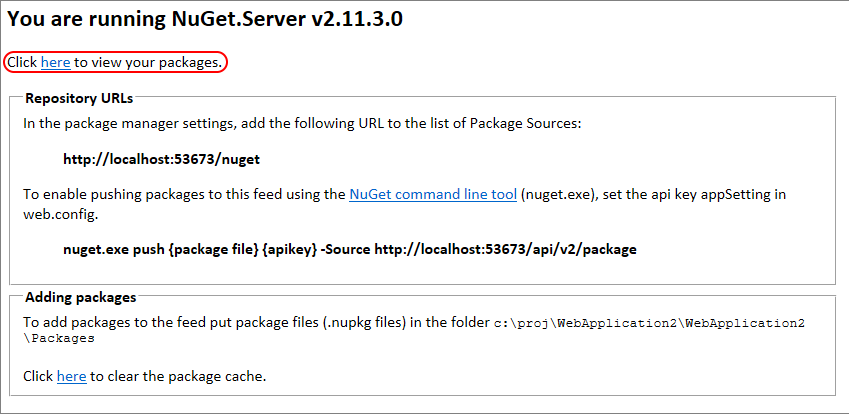
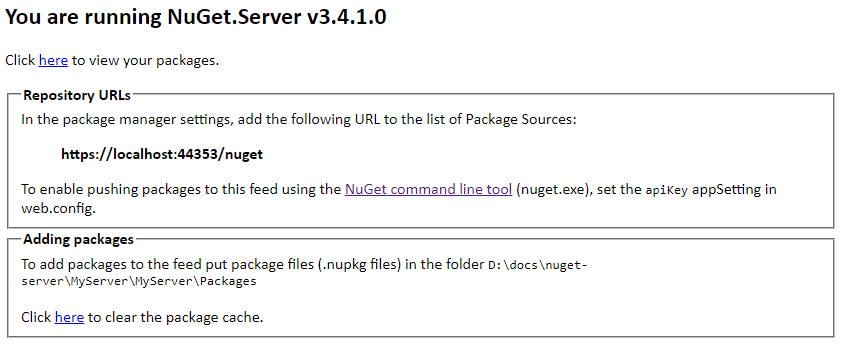
Update NuGet.Server docs to talk about the new push URL

Changed region(s): [[0.0, 0.1156, 1.0, 1.0], [0.0, 0.0, 0.4929, 0.0867]]

diff --git a/docs/hosting-packages/NuGet-Server.md b/docs/hosting-packages/NuGet-Server.md
@@ -21,53 +21,38 @@ If you have further questions about NuGet.Server, create an issue on [https://gi
 
 ## Create and deploy an ASP.NET Web application with NuGet.Server
 
-1. In Visual Studio, select **File > New > Project**, search for "ASP.NET", select the **ASP.NET Web Application (.NET Framework)** template for C#, and set **Framework** to ".NET Framework 4.6":
+1. In Visual Studio, select **File > New > Project**, search for "ASP.NET Web Application (.NET Framework)", select the matching template for C#.
+
+    ![Select the .NET Framework web project template](media/Hosting_00-NuGet.Server-ProjectType.png)
+
+1. Set **Framework** to ".NET Framework 4.6".
 
     ![Setting the target framework for a new project](media/Hosting_01-NuGet.Server-Set4.6.png)
 
 1. Give the application a suitable name *other* than NuGet.Server, select OK, and in the next dialog select the **Empty** template, then select **OK**.
 
+    ![Select the empty web project](media/Hosting_02-NuGet.Server-Empty.png)
+
 1. Right-click the project, select **Manage NuGet Packages**.
 
 1. In the Package Manager UI, select the **Browse** tab, then search and install the latest version of the NuGet.Server package if you're targeting .NET Framework 4.6. (You can also install it from the Package Manager Console with `Install-Package NuGet.Server`.) Accept the license terms if prompted.
 
-    ![Installing the NuGet.Server package](media/Hosting_02-NuGet.Server-Package.png)
+    ![Installing the NuGet.Server package](media/Hosting_03-NuGet.Server-Package.png)
 
 1. Installing NuGet.Server converts the empty Web application into a package source. It installs a variety of other packages, creates a `Packages` folder in the application, and modifies `web.config` to include additional settings (see the comments in that file for details).
 
     > [!Important]
     > Carefully inspect `web.config` after the NuGet.Server package has completed its modifications to that file. NuGet.Server may not overwrite existing elements but instead create duplicate elements. Those duplicates will cause an "Internal Server Error" when you later try to run the project. For example, if your `web.config` contains `<compilation debug="true" targetFramework="4.5.2" />` before installing NuGet.Server, the package doesn't overwrite it but inserts a second `<compilation debug="true" targetFramework="4.6" />`. In that case, delete the element with the older framework version.
 
-1. To make packages available in the feed when you publish the application to a server, add each `.nupkg` files to the `Packages` folder in Visual Studio, then set each one's **Build Action** to **Content** and **Copy to Output Directory** to **Copy always**:
-
-    ![Copying packages to the Packages folder in the project](media/Hosting_03-NuGet.Server-Package-Folder.png)
-
-1. Run the site locally in Visual Studio (using **Debug > Start Without Debugging** or Ctrl+F5). The home page provides the package feed URLs as shown below. If you see errors, carefully inspect your `web.config` for duplicate elements are noted earlier with step 5.
+1. Run the site locally in Visual Studio (using **Debug > Start Without Debugging** or Ctrl+F5). The home page provides the package feed URLs as shown below. If you see errors, carefully inspect your `web.config` for duplicate elements as noted earlier.
 
     ![Default home page for an application with NuGet.Server](media/Hosting_04-NuGet.Server-FeedHomePage.png)
 
-1. Click on **here** in the area outlined above to see the OData feed of packages.
-
-1. The first time you run the application, NuGet.Server restructures the `Packages` folder to contain a folder for each package. This matches the [local storage layout](https://blog.nuget.org/20151118/nuget-3.3.html#folder-based-repository-commands) introduced with NuGet 3.3 to improve performance. When adding more packages, continue to follow this structure.
+1.  The first time you run the application, NuGet.Server restructures the `Packages` folder to contain a folder for each package. This matches the [local storage layout](https://blog.nuget.org/20151118/nuget-3.3.html#folder-based-repository-commands) introduced with NuGet 3.3 to improve performance. When adding more packages, continue to follow this structure.
 
 1. Once you've tested your local deployment, deploy the application to any other internal or external site as needed.
 
 1. Once deployed to `http://<domain>`, the URL that you use for the package source will be `http://<domain>/nuget`.
-
-## Configuring the Packages folder
-
-With `NuGet.Server` 1.5 and later, you can more specifically configure the package folder using the `appSetting/packagesPath` value in `web.config`:
-
-```xml
-<appSettings>
-    <!-- Set the value here to specify your custom packages folder. -->
-    <add key="packagesPath" value="C:\MyPackages" />
-</appSettings>
-```
-
-`packagesPath` can be an absolute or virtual path.
-
-When `packagesPath` is omitted or left blank, the packages folder is the default `~/Packages`.
 
 ## Adding packages to the feed externally
 
@@ -87,7 +72,7 @@ To enable this capability, set the `apiKey` to a value (ideally a strong passwor
 
 ```xml
 <appSettings>
-        <!-- Sets whether an API Key is required to push/delete packages -->
+    <!-- Sets whether an API Key is required to push/delete packages -->
     <add key="requireApiKey" value="true" />
 
     <!-- Set a shared password (for all users) to push/delete packages -->
@@ -97,11 +82,44 @@ To enable this capability, set the `apiKey` to a value (ideally a strong passwor
 
 If your server is already secured or you do not otherwise require an API key (for example, when using a private server on a local team network), you can set `requireApiKey` to `false`. All users with access to the server can then push packages.
 
+Starting with NuGet.Server 3.0.0, the URL for pushing packages was change to `http://<domain>/nuget`. Prior to the
+3.0.0 release, the push URL was `http://<domain>/api/v2/package`.
+
+With NuGet 3.2.1 and newer, this legacy URL `/api/v2/package` is enabled in addition to `/nuget` by default via
+`enableLegacyPushRoute: true` option in your startup config (`NuGetODataConfig.cs` by default). Note that this feature
+does not work when multiple feeds are hosted in the same project.
+
 ## Removing packages from the feed
 
 With NuGet.Server, the [nuget delete](../reference/cli-reference/cli-ref-delete.md) command removes a package from the repository provided that you include the API key with the comment.
 
 If you want to change the behavior to delist the package instead (leaving it available for package restore), change the `enableDelisting` key in `web.config` to true.
+
+## Configuring the Packages folder
+
+With `NuGet.Server` 1.5 and later, you can more specifically configure the package folder using the `appSetting/packagesPath` value in `web.config`:
+
+```xml
+<appSettings>
+    <!-- Set the value here to specify your custom packages folder. -->
+    <add key="packagesPath" value="C:\MyPackages" />
+</appSettings>
+```
+
+`packagesPath` can be an absolute or virtual path.
+
+When `packagesPath` is omitted or left blank, the packages folder is the default `~/Packages`.
+
+## Making packages available when you publish the web app
+
+To make packages available in the feed when you publish the application to a server, add each `.nupkg` files to the `Packages` folder in Visual Studio, then set each one's **Build Action** to **Content** and **Copy to Output Directory** to **Copy always**:
+
+    ![Copying packages to the Packages folder in the project](media/Hosting_05-NuGet.Server-Package-Folder.png)
+
+## Release Notes
+
+Release notes for NuGet.Server are available on the [GitHub release page](https://github.com/NuGet/NuGet.Server/releases).
+This includes details about bug fixes and new features that are added.
 
 ## NuGet.Server support
 
